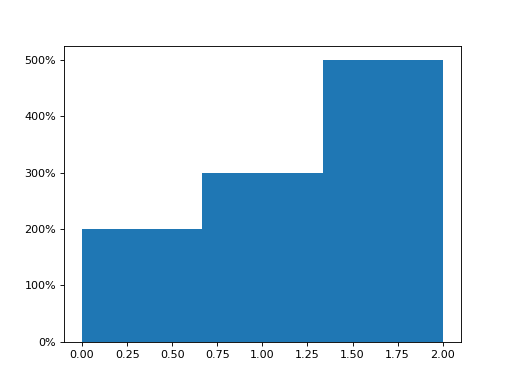
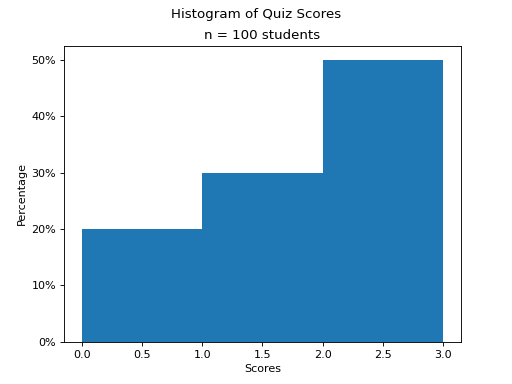
Wed Aug 16 17:42:37 UTC 2023 Auto-Documentation Bot: Beep Boop

diff --git a/_downloads/e802a231a2921e3fdfa2cb4b3b70c5f2/histogram_skewed_right.py b/_downloads/e802a231a2921e3fdfa2cb4b3b70c5f2/histogram_skewed_right.py
@@ -2,13 +2,23 @@ import matplotlib
 
 matplotlib.use('agg')
 
+# matplotlib.use('tkagg')
+
 import matplotlib.pyplot as plt
 from matplotlib.ticker import PercentFormatter
 
 fig, axs = plt.subplots()
 
-axs.hist([ 0, 0, 1, 1, 1, 2, 2, 2, 2, 2], bins=3)
+plt.suptitle("Histogram of Quiz Scores")
+plt.title("n = 100 students")
 
-axs.yaxis.set_major_formatter(PercentFormatter(xmax=1))
+data = [ 0, 0, 1, 1, 1, 2, 2, 2, 2, 2 ]
+weights = [ 1/len(data) for _ in data ]
+
+axs.hist(data, bins=3, weights=weights, range=(0,3))
+
+axs.yaxis.set_major_formatter(PercentFormatter(1))
+axs.set_xlabel("Scores")
+axs.set_ylabel("Percentage")
 
 plt.show()
